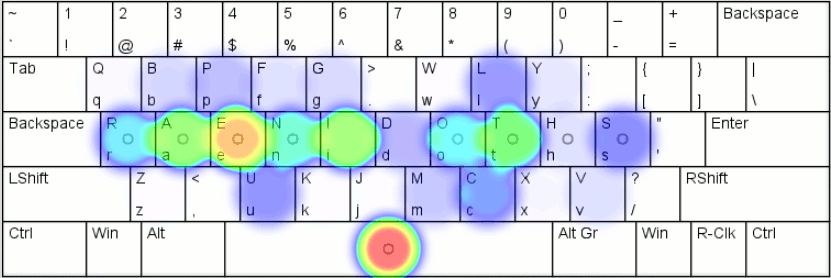
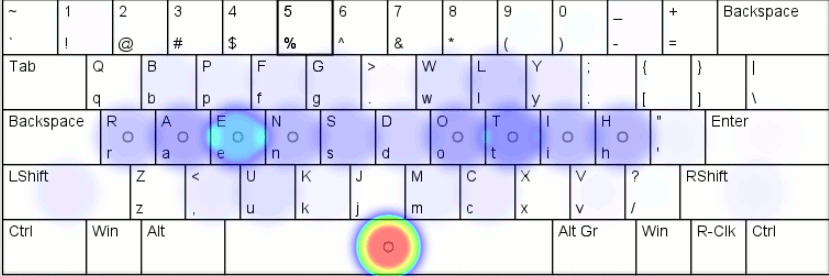
Update for the layout changes.

diff --git a/README.md b/README.md
@@ -70,31 +70,34 @@ no this time currently. So it will be done later.
 There are results from [patorjk.com/keyboard-layout-analyzer](http://patorjk.com/keyboard-layout-analyzer/) for
 the configuration [keyboard-analyzer-config.json](keyboard-analyzer-config.json):
 
-![Keymacs heatmap for commonly used words](keymacs-heatmap-for-commonly-used-words.png)
+![Keymacs heatmap for I chapter of "Alice in Wonderland"](keymacs-heatmap-for-alice-in-wonderland.png)
 
+Compare with QWERTY layout: 
+
+![QWERTY heatmap for I chapter of "Alice in Wonderland"](qwerty-heatmap-for-alice-in-wonderland.png)
 
 ### Top of the most frequent letter pairs in English texts
 
 * TH — at home row in Keymacs, not need finger movement `[+]`
 * HE — at home row in Keymacs, not need finger movement `[+]`
 * AN — at home row in Keymacs, not need finger movement `[+]`
-* IN — at home row in Keymacs, but need the same finger `[-]`
+* IN — at home row in Keymacs, not need finger movement `[+]`
 * ER — at home row in Keymacs, not need finger movement `[+]`
 * ND — at home row in Keymacs `[+/-]`
 * RE — at home row in Keymacs, not need finger movement `[+]`
 * ED — at home row in Keymacs `[+/-]`
-* ES — at home row in Keymacs, not need finger movement `[+]`
+* ES — at home row in Keymacs `[+/-]`
 * OU — need finger movement `[-]`
 * TO — at home row in Keymacs, not need finger movement `[+]`
 * HA — at home row in Keymacs, not need finger movement `[+]`
 * EN — at home row in Keymacs, not need finger movement `[+]`
 * EA — at home row in Keymacs, not need finger movement `[+]`
-* ST — at home row in Keymacs, not need finger movement `[+]`
+* ST — at home row in Keymacs `[+/-]`
 * NT — at home row in Keymacs, not need finger movement `[+]`
 * ON — at home row in Keymacs, not need finger movement `[+]`
 * AT — at home row in Keymacs, not need finger movement `[+]`
-* HI — need finger movement `[-]`
-* AS — at home row in Keymacs, not need finger movement `[+]`
+* HI — at home row in Keymacs, not need finger movement `[+]`
+* AS — at home row in Keymacs `[+/-]`
 
 For compare QWERTY only had *AS* pair placed at home row, but
 all other pairs from the list above need move either one finger.
@@ -128,29 +131,29 @@ right path to ideal.
 
 ### Carpalx results for the layout
 
-    Keyboard effort                                             
+    Keyboard effort
     ------------------------------------------------------------
-    k1                      0.788  76.9  76.9                   
-    k1,k2                   0.992  19.9  96.8                   
-    k1,k2,k3                1.025   3.2 100.0                   
-    b                       0.356  19.3  19.3                   
-    p                       0.670  36.4 153.1                   
+    k1                      0.790  78.4  78.4                   
+    k1,k2                   0.980  18.8  97.2                   
+    k1,k2,k3                1.008   2.8 100.0                   
+    b                       0.336  18.6  18.6                   
+    p                       0.672  37.3 149.9                   
     ph                      0.000   0.0   0.0                   
-    pr                      0.166  24.8  24.8                   
-    pf                      0.431  64.4  89.2                   
-    s                       0.813  44.2 100.0                   
-    all                     1.838 100.0 100.0                   
+    pr                      0.166  24.7  24.7                   
+    pf                      0.431  64.1  88.8                   
+    s                       0.795  44.1 100.0                   
+    all                     1.803 100.0 100.0                   
                                                                 
-    #data effort_k1=>[0.788,76.868,76.868],                     
-    #data effort_k12=>[0.992,19.923,96.790],                    
-    #data effort_k123=>[1.025,3.210,100.000],                   
-    #data effort_base=>[0.356,19.345,19.345],                   
-    #data effort_penalty=>[0.670,36.428,153.104],               
+    #data effort_k1=>[0.790,78.380,78.380],                     
+    #data effort_k12=>[0.980,18.832,97.212],                    
+    #data effort_k123=>[1.008,2.788,100.000],                   
+    #data effort_base=>[0.336,18.616,18.616],                   
+    #data effort_penalty=>[0.672,37.288,149.924],               
     #data effort_penalty_hand=>[0.000,0.000,0.000],             
-    #data effort_penalty_row=>[0.166,24.800,24.800],            
-    #data effort_penalty_finger=>[0.431,64.438,89.238],         
-    #data effort_path=>[0.813,44.227,100.000],                  
-    #data effort_all=>[1.838,100.000,100.000],                  
+    #data effort_penalty_row=>[0.166,24.693,24.693],            
+    #data effort_penalty_finger=>[0.431,64.134,88.827],         
+    #data effort_path=>[0.795,44.096,100.000],                  
+    #data effort_all=>[1.803,100.000,100.000],                  
                                                                 
     keyboard row frequency                                      
     ------------------------------------------------------------
@@ -164,28 +167,27 @@ right path to ideal.
                                                                 
     keyboard hand frequency                                     
     ------------------------------------------------------------
-    0                     4711673 51.5  51.5                    
-    1                     4439492 48.5 100.0                    
+    0                     4634796 50.6  50.6                    
+    1                     4516369 49.4 100.0                    
                                                                 
     #data hand_data=>[qw(0 1)],                                 
-    #data hand_frequency=>[0.515,0.485],                        
-    #data hand_cumulative=>[0.515,1.000],                       
+    #data hand_frequency=>[0.506,0.494],                        
+    #data hand_cumulative=>[0.506,1.000],                       
                                                                 
     keyboard finger frequency                                   
     ------------------------------------------------------------
     0                      539877  5.9   5.9                    
     1                      895424  9.8  15.7                    
     2                     1540730 16.8  32.5                    
-    3                     1735642 19.0  51.5                    
-    6                     1806945 19.7  71.2                    
-    7                     1211914 13.2  84.5                    
-    8                      854357  9.3  93.8                    
-    9                      566276  6.2 100.0                    
-
-
+    3                     1658765 18.1  50.6                    
+    6                     1806945 19.7  70.4                    
+    7                     1211914 13.2  83.6                    
+    8                      918154 10.0  93.7                    
+    9                      579356  6.3 100.0                    
+                                                                
 ## Known problems
 
-* Position of `N` `I` pair is bad for high frequency English pair "IN" because these both keys pressed by the left index finger.
+* Layout has high rate of consecutive finger usage for index fingers.
 * Navigation block need more tests (all keys ←↓↑→ on one hand VS splitted ↓↑ on left and ←→ on right).
 
 ## Separated navigation layer
